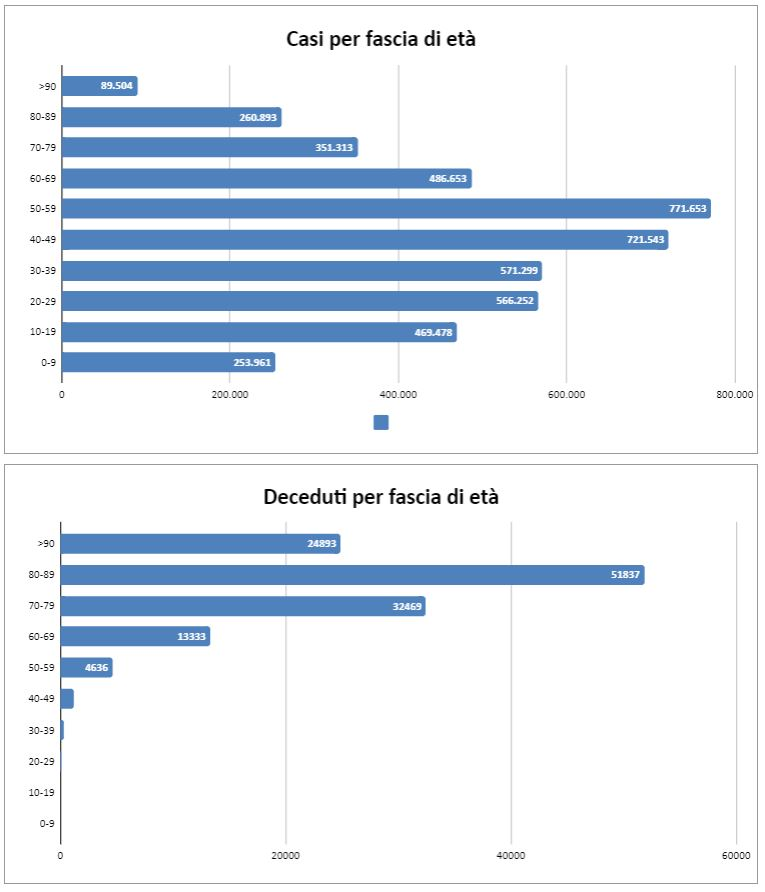
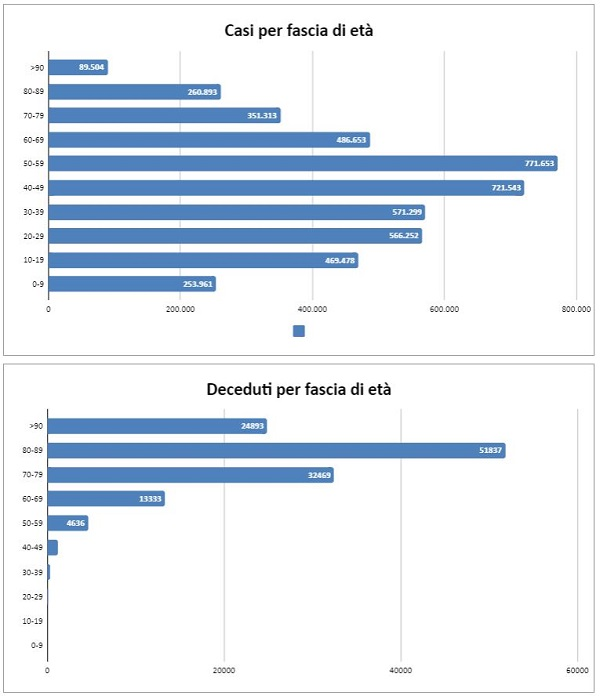
aggiornamento 10 settembre

diff --git a/src/app/components/report-iss/report-iss.component.html b/src/app/components/report-iss/report-iss.component.html
@@ -41,23 +41,23 @@
   <div class="container_grafici">
     <div class="percentuale">
       <h5>Fascia 0-49</h5>
-      <p>Tot. casi: <span id="positiviTamponi" class="bold">2.582.533</span></p>
-      <p>Tot deceduti: <span id="decedutiSuCasi" class="bold">1536</span></p>
+      <p>Tot. casi: <span id="positiviTamponi" class="bold">2.609.973</span></p>
+      <p>Tot deceduti: <span id="decedutiSuCasi" class="bold">1523</span></p>
       <p>Percentuale: <span id="guaritiSuCasi" class="bold">0,06%</span></p>
     </div>
 
     <div class="totali">
       <h5>Fascia 50-90+</h5>
-      <p>Tot. casi: <span id="positiviTamponi" class="bold">1.960.016</span></p>
-      <p>Tot deceduti: <span id="decedutiSuCasi" class="bold">127.171</span></p>
-      <p>Percentuale: <span id="guaritiSuCasi" class="bold">6,49%</span></p>
+      <p>Tot. casi: <span id="positiviTamponi" class="bold">1.971.632</span></p>
+      <p>Tot deceduti: <span id="decedutiSuCasi" class="bold">127.517</span></p>
+      <p>Percentuale: <span id="guaritiSuCasi" class="bold">6,47%</span></p>
     </div>
 
     <div class="percentuale">
       <h5>Riepilogo</h5>
-      <p>Tot. casi: <span id="positiviTamponi" class="bold">4.542.549</span></p>
-      <p>Tot deceduti: <span id="decedutiSuCasi" class="bold">128.707</span></p>
-      <p>% deceduti su positivi: <span id="guaritiSuCasi" class="bold">2,83%</span></p>
+      <p>Tot. casi: <span id="positiviTamponi" class="bold">4.581.605</span></p>
+      <p>Tot deceduti: <span id="decedutiSuCasi" class="bold">129.040</span></p>
+      <p>% deceduti su positivi: <span id="guaritiSuCasi" class="bold">2,82%</span></p>
     </div>
 
     <br>
@@ -114,6 +114,16 @@
         <e-accordionitems>
           <e-accordionitem expanded='true'>
             <ng-template #header>
+              <div>10 Settembre 2021</div>
+            </ng-template>
+            <ng-template #content>
+              <p>
+                <img src="assets/images/decessi_0_19_10Settembre2021.JPG">
+              </p>
+            </ng-template>
+          </e-accordionitem>
+          <e-accordionitem>
+            <ng-template #header>
               <div>01 Settembre 2021</div>
             </ng-template>
             <ng-template #content>
@@ -158,7 +168,7 @@
 
     <div class="percentuale">
 
-      <img src="assets/images/01Settembre2021.JPG">
+      <img src="assets/images/10Settembre2021.JPG">
     </div>
   </div>
 
